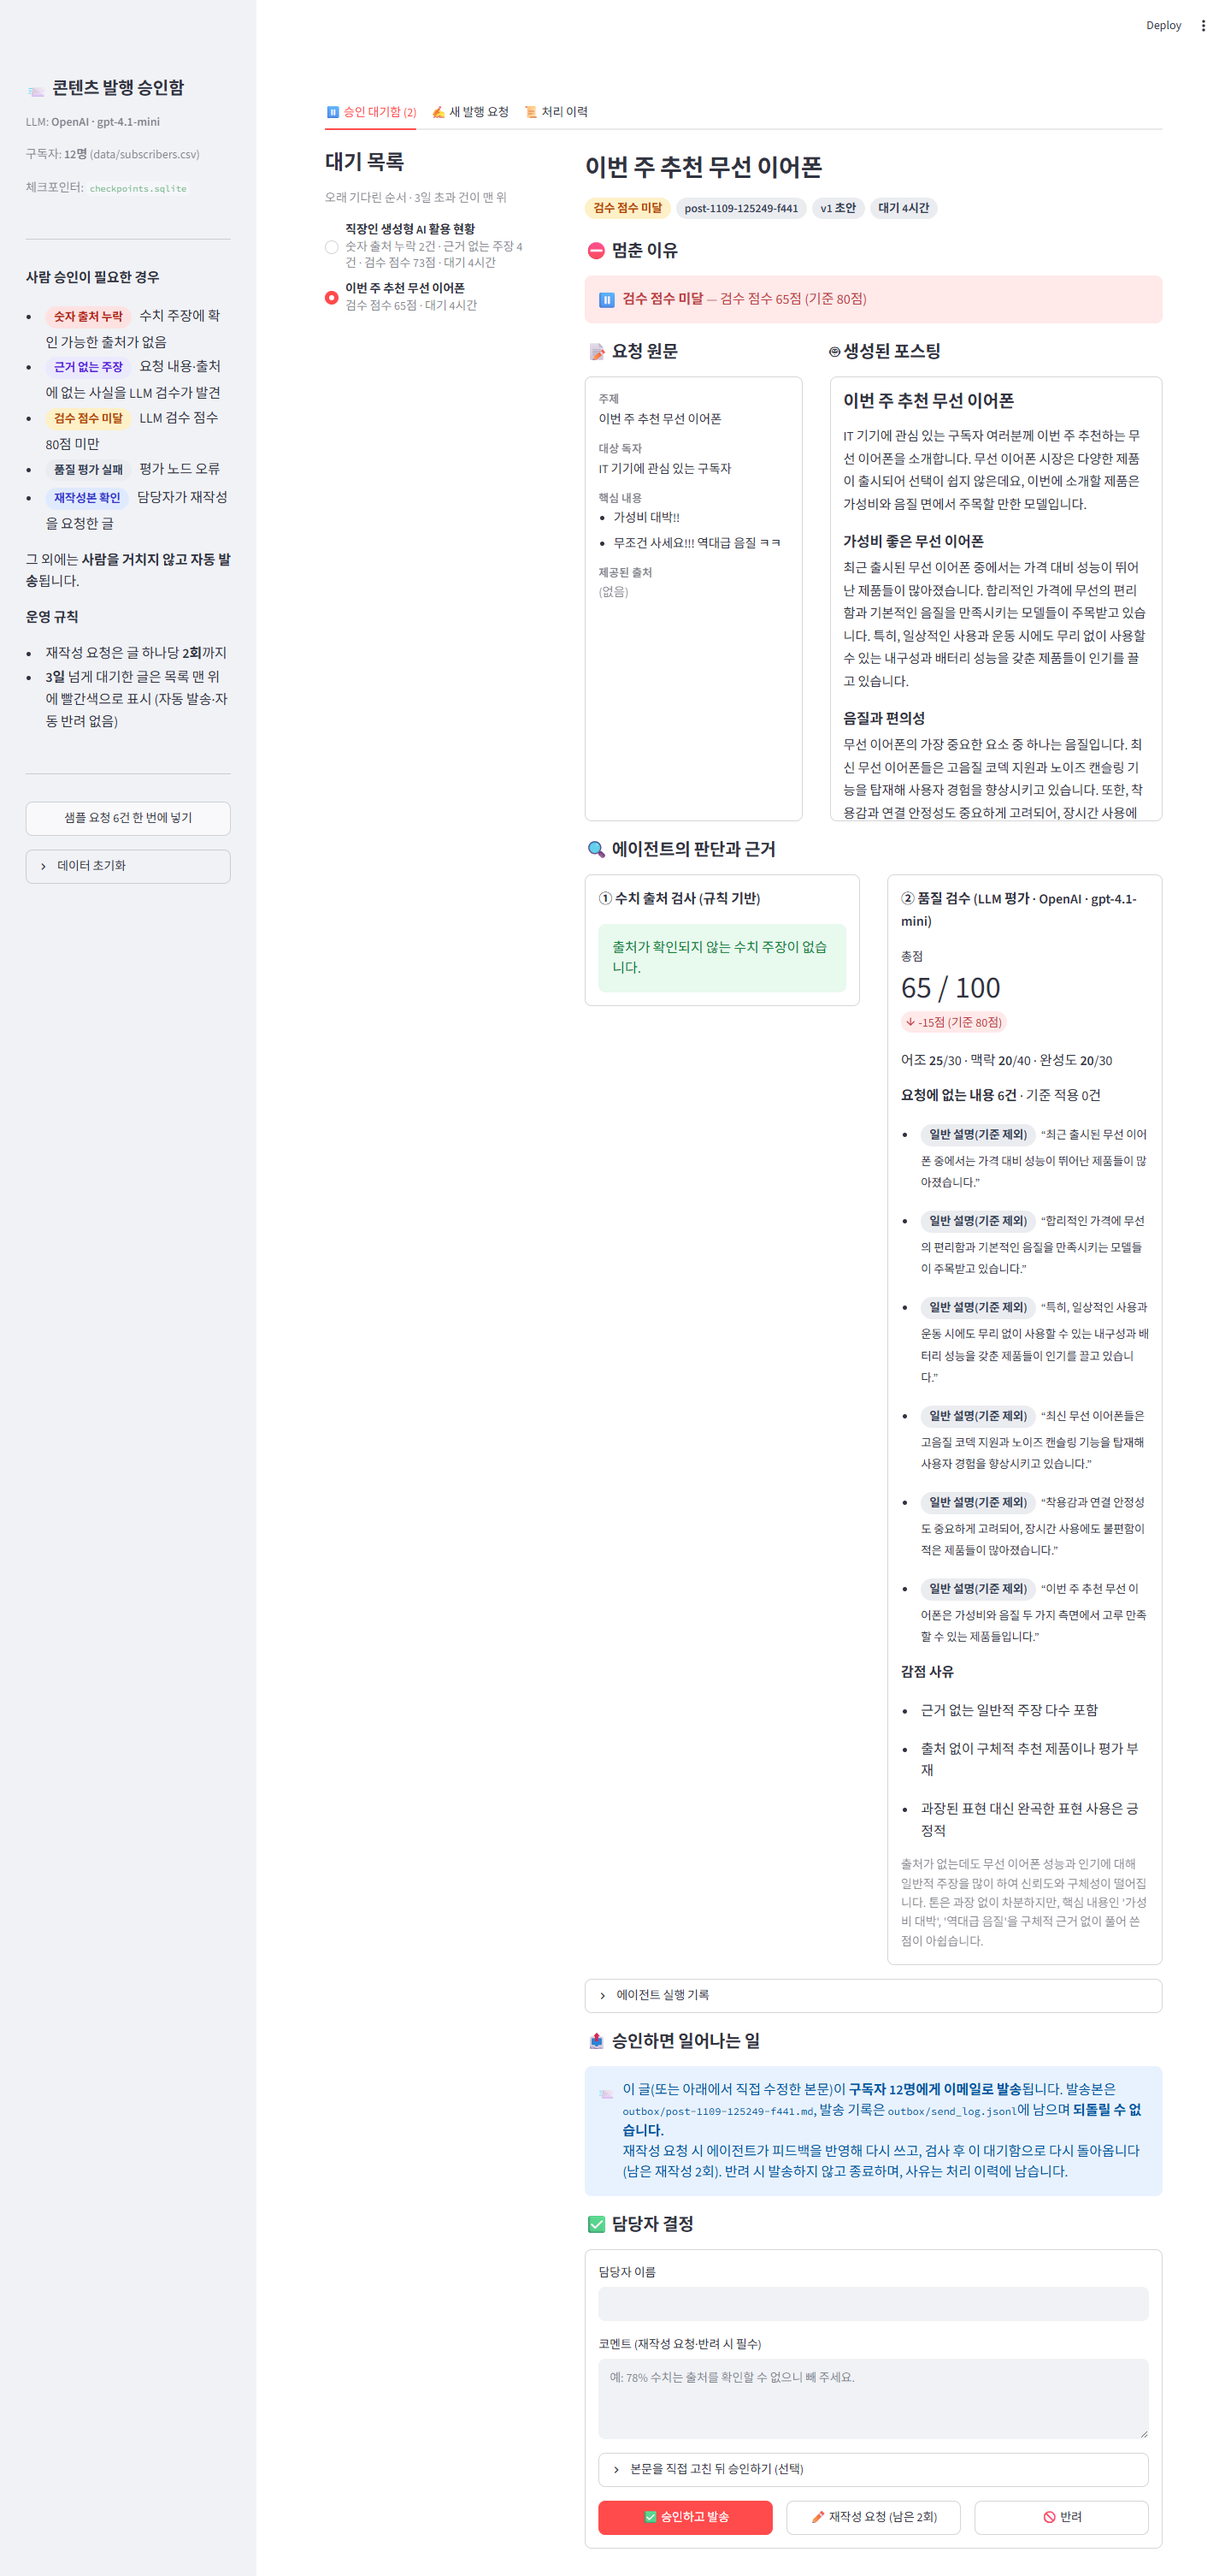
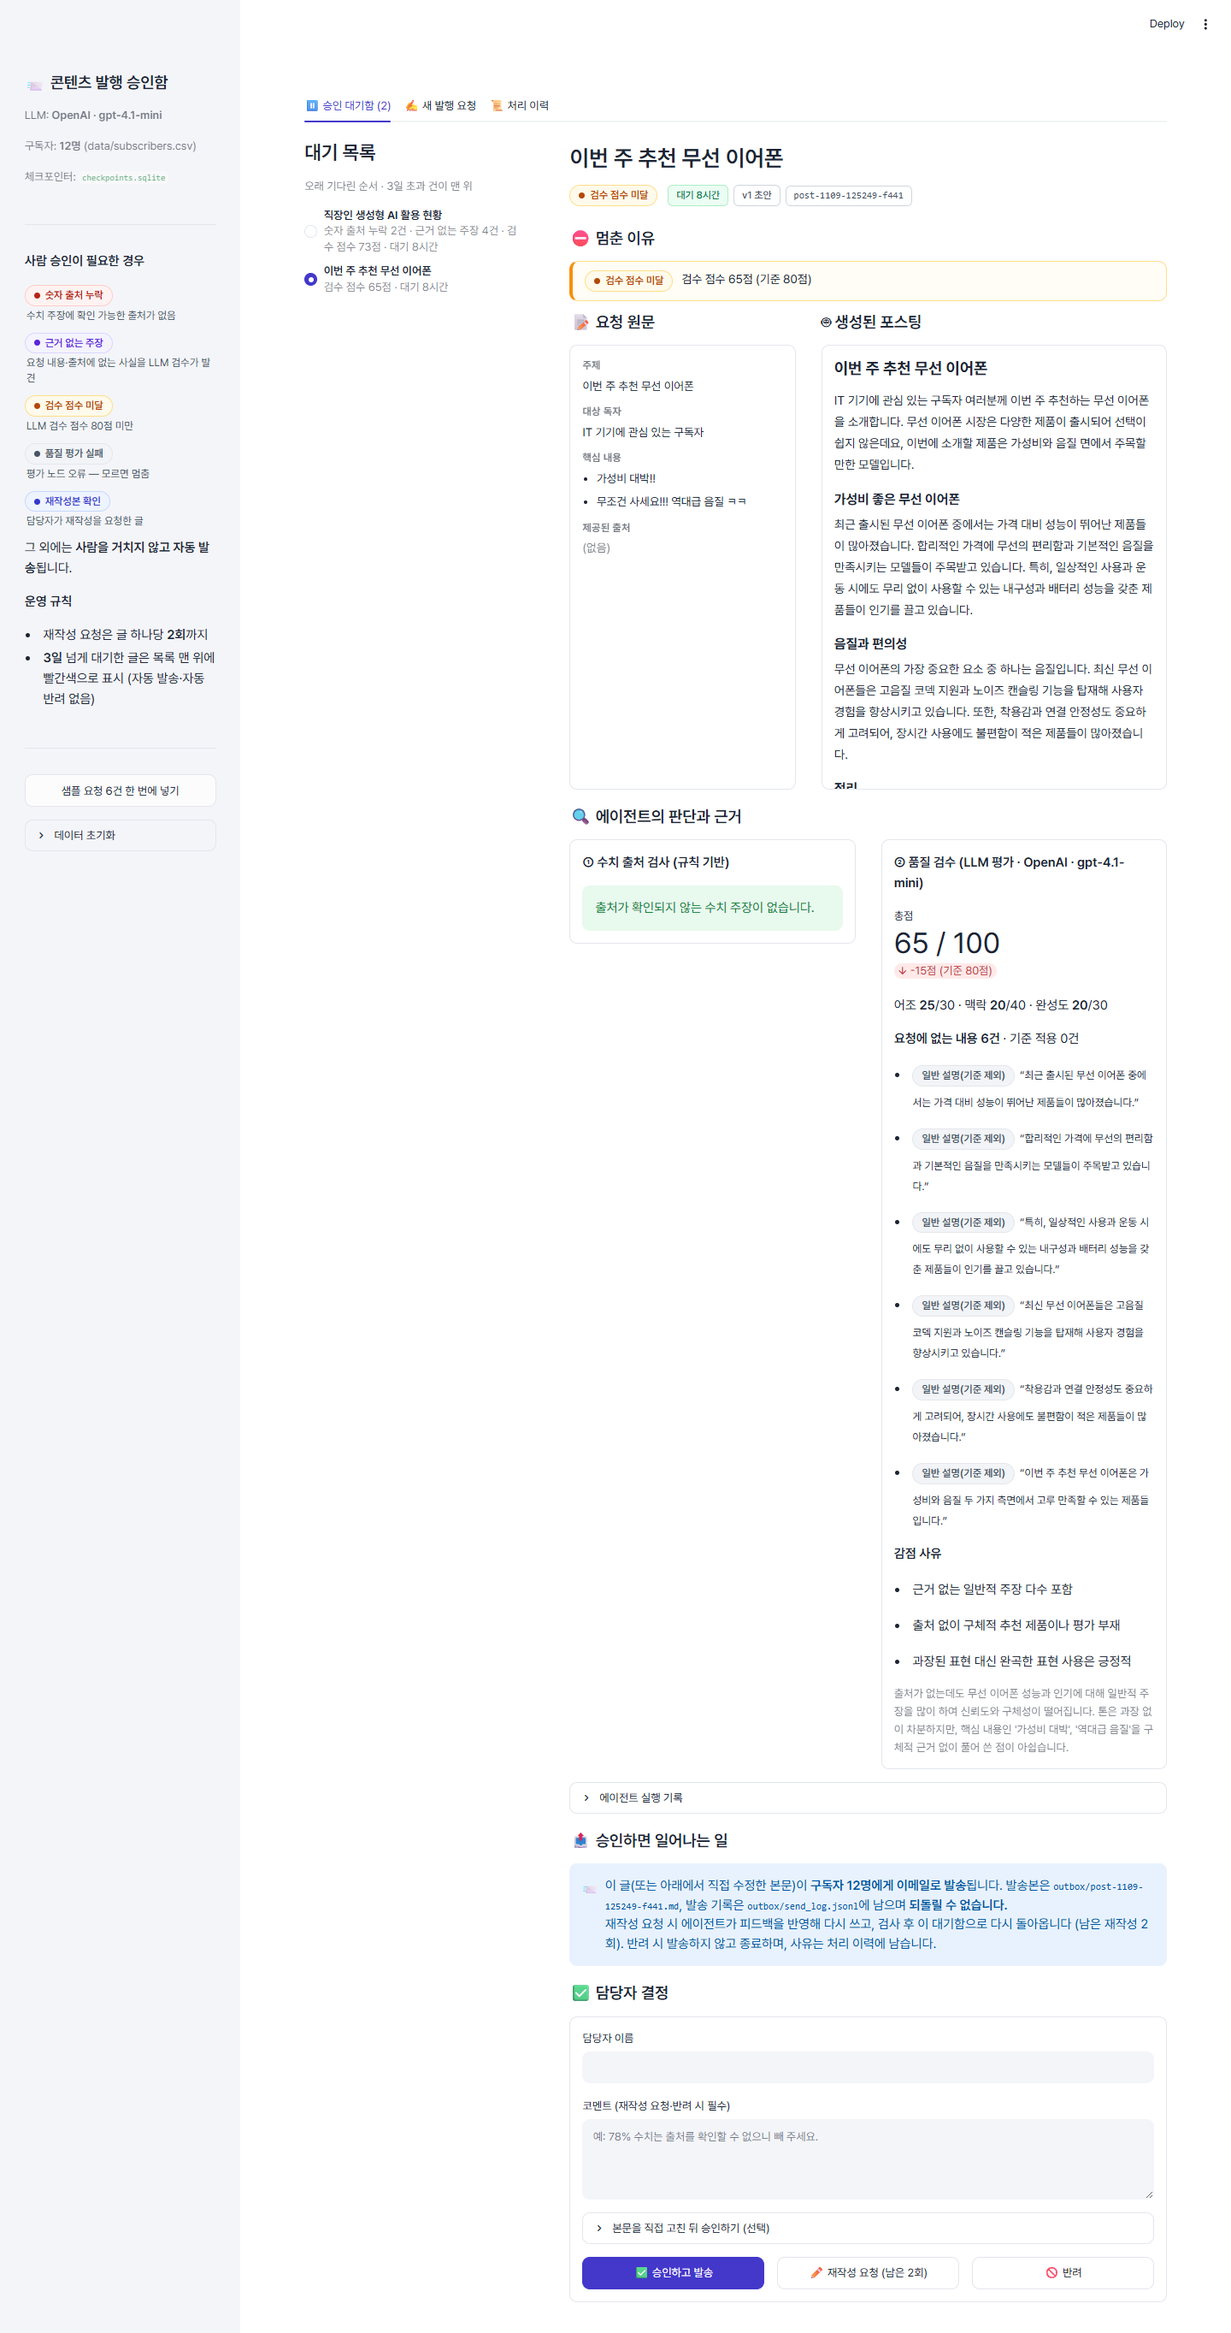
Restyle approval screen: Pretendard font and consistent color rules
- .streamlit/config.toml theme: indigo primary, neutral grays, Pretendard
  (loaded via jsDelivr dynamic-subset CSS, falls back to system fonts)
- Color rules: red = factual risk / overdue, violet = fabricated claims,
  amber = quality, blue = human-check step, gray = reference info
- Stop reasons as color-matched cards; wait-time chip green/amber/red by
  urgency; outlined meta chips for version and request ID
- Sidebar criteria list with description under each chip
- REPORT screenshots recaptured with the new design

diff --git a/app.py b/app.py
@@ -21,13 +21,39 @@ st.set_page_config(page_title="콘텐츠 발행 승인함", page_icon="📨", la
 st.markdown(
     """
 <style>
-.chip{display:inline-block;padding:2px 10px;margin:0 6px 4px 0;border-radius:999px;font-size:0.85rem;font-weight:600}
-.chip-red{background:#fde2e1;color:#b42318}
-.chip-amber{background:#fef0c7;color:#b54708}
-.chip-blue{background:#e0eaff;color:#3538cd}
-.chip-green{background:#dcfae6;color:#067647}
-.chip-gray{background:#eaecf0;color:#344054}
-.chip-purple{background:#ebe9fe;color:#5925dc}
+/* 글꼴: Pretendard (jsDelivr, 화면에 쓰인 글자만 받는 dynamic subset). 인터넷이 없으면 config.toml의 대체 글꼴로 표시된다 */
+@import url("https://cdn.jsdelivr.net/npm/pretendard@1.3.9/dist/web/static/pretendard-dynamic-subset.min.css");
+/* 색 규칙: 빨강 = 사실 위험(수치·기한 초과) · 보라 = 지어낸 주장 · 주황 = 품질 · 파랑 = 사람 확인 단계 · 회색 = 참고 정보 */
+.chip{display:inline-flex;align-items:center;gap:6px;padding:3px 10px;margin:0 6px 6px 0;border-radius:999px;
+  font-size:0.8rem;font-weight:600;line-height:1.4;border:1px solid transparent;white-space:nowrap}
+.chip-red{background:#FEF3F2;color:#B42318;border-color:#FECDCA}
+.chip-amber{background:#FFFAEB;color:#B54708;border-color:#FEDF89}
+.chip-blue{background:#EEF4FF;color:#3538CD;border-color:#C7D7FE}
+.chip-green{background:#ECFDF3;color:#067647;border-color:#ABEFC6}
+.chip-gray{background:#F2F4F7;color:#475467;border-color:#E4E7EC}
+.chip-purple{background:#F4F3FF;color:#5925DC;border-color:#D9D6FE}
+.dot::before{content:"";width:7px;height:7px;border-radius:50%;background:currentColor;flex:none}
+/* 참고 정보(요청 ID·버전·대기 시간): 테두리만 있는 작은 칩 */
+.meta{display:inline-flex;align-items:center;padding:2px 9px;margin:0 6px 6px 0;border-radius:6px;font-size:0.78rem;
+  font-weight:500;color:#475467;background:#fff;border:1px solid #D0D5DD;white-space:nowrap}
+.meta.mono{font-family:Consolas,'D2Coding',monospace;font-size:0.74rem}
+.meta.m-blue{color:#3538CD;border-color:#C7D7FE;background:#EEF4FF}
+.meta.m-green{color:#067647;border-color:#ABEFC6;background:#ECFDF3}
+.meta.m-amber{color:#B54708;border-color:#FEDF89;background:#FFFAEB}
+.meta.m-red{color:#B42318;border-color:#FECDCA;background:#FEF3F2;font-weight:700}
+/* 멈춘 이유: 이유마다 같은 색의 카드 */
+.rbox{display:flex;align-items:flex-start;gap:10px;padding:10px 14px;margin:0 0 8px;border-radius:10px;
+  border:1px solid;border-left-width:4px;font-size:0.92rem;line-height:1.55}
+.rbox .chip{margin:0;flex:none}
+.rbox.r-red{background:#FFFBFA;border-color:#FECDCA;border-left-color:#D92D20}
+.rbox.r-purple{background:#FCFBFF;border-color:#D9D6FE;border-left-color:#7A5AF8}
+.rbox.r-amber{background:#FFFDF5;border-color:#FEDF89;border-left-color:#F79009}
+.rbox.r-blue{background:#F8FAFF;border-color:#C7D7FE;border-left-color:#444CE7}
+.rbox.r-gray{background:#FAFAFB;border-color:#E4E7EC;border-left-color:#667085}
+/* 사이드바 기준 목록 */
+.crit{margin:0 0 10px}
+.crit .chip{margin-bottom:2px}
+.crit div{font-size:0.82rem;color:#475467;line-height:1.45;padding-left:2px}
 mark{background:#fde2e1;color:inherit;padding:0 2px;border-bottom:2px solid #f04438}
 mark.claim{background:#ebe9fe;border-bottom-color:#7a5af8}
 .step{font-size:0.9rem;margin:2px 0}
@@ -57,8 +83,24 @@ REASON_CHIP = {"NUMERIC_NO_SOURCE": "chip-red", "UNSUPPORTED_CLAIM": "chip-purpl
 STATUS_LABEL = {"pending_review": "⏸ 승인 대기", "published": "📨 발송됨", "rejected": "🚫 반려", "drafting": "✍ 작성 중"}
 
 
+def chip(code: str, label: str) -> str:
+    return f'<span class="chip dot {REASON_CHIP.get(code, "chip-gray")}">{html.escape(label)}</span>'
+
+
 def chips(reasons: list[dict]) -> str:
-    return "".join(f'<span class="chip {REASON_CHIP.get(r["code"], "chip-gray")}">{html.escape(r["label"])}</span>' for r in reasons)
+    return "".join(chip(r["code"], r["label"]) for r in reasons)
+
+
+def reason_box(r: dict) -> str:
+    color = REASON_CHIP.get(r["code"], "chip-gray").replace("chip-", "r-")
+    return f'<div class="rbox {color}">{chip(r["code"], r["label"])}<span>{html.escape(r["detail"])}</span></div>'
+
+
+def wait_meta(job: dict) -> str:
+    """대기 시간 칩: 하루 안 = 초록, 기한 전 = 주황, 기한 초과 = 빨강."""
+    days = job.get("_pending_days") or 0
+    tone = "m-red" if job.get("_overdue") else "m-amber" if days >= 1 else "m-green"
+    return f'<span class="meta {tone}">{"⏰ " if job.get("_overdue") else ""}대기 {service.format_age(job.get("_pending_days"))}</span>'
 
 
 def highlight(post: str, findings: list[dict], claims: list[str] = ()) -> str:
@@ -165,13 +207,20 @@ with st.sidebar:
     st.divider()
     st.markdown("**사람 승인이 필요한 경우**")
     st.markdown(
+        "".join(
+            f'<div class="crit">{chip(code, label)}<div>{desc}</div></div>'
+            for code, label, desc in [
+                ("NUMERIC_NO_SOURCE", "숫자 출처 누락", "수치 주장에 확인 가능한 출처가 없음"),
+                ("UNSUPPORTED_CLAIM", "근거 없는 주장", "요청 내용·출처에 없는 사실을 LLM 검수가 발견"),
+                ("LOW_QUALITY", "검수 점수 미달", f"LLM 검수 점수 {QUALITY_THRESHOLD}점 미만"),
+                ("EVAL_ERROR", "품질 평가 실패", "평가 노드 오류 — 모르면 멈춤"),
+                ("REVISION_CONFIRM", "재작성본 확인", "담당자가 재작성을 요청한 글"),
+            ]
+        ),
+        unsafe_allow_html=True,
+    )
+    st.markdown(
         f"""
-- <span class="chip chip-red">숫자 출처 누락</span> 수치 주장에 확인 가능한 출처가 없음
-- <span class="chip chip-purple">근거 없는 주장</span> 요청 내용·출처에 없는 사실을 LLM 검수가 발견
-- <span class="chip chip-amber">검수 점수 미달</span> LLM 검수 점수 {QUALITY_THRESHOLD}점 미만
-- <span class="chip chip-gray">품질 평가 실패</span> 평가 노드 오류
-- <span class="chip chip-blue">재작성본 확인</span> 담당자가 재작성을 요청한 글
-
 그 외에는 **사람을 거치지 않고 자동 발송**됩니다.
 
 **운영 규칙**
@@ -257,10 +306,10 @@ with tab_inbox:
             st.markdown(f"### {job['topic']}")
             st.markdown(
                 chips(job.get("reasons", []))
-                + f'<span class="chip chip-gray">{job["request_id"]}</span>'
-                + f'<span class="chip chip-gray">v{job.get("revision", 0) + 1} 초안</span>'
-                + f'<span class="chip {"chip-red" if job["_overdue"] else "chip-gray"}">'
-                f'{"⏰ " if job["_overdue"] else ""}대기 {service.format_age(job["_pending_days"])}</span>',
+                + '<span style="display:inline-block;width:6px"></span>'
+                + wait_meta(job)
+                + f'<span class="meta {"m-blue" if job.get("revision", 0) else ""}">v{job.get("revision", 0) + 1} 초안</span>'
+                + f'<span class="meta mono">{job["request_id"]}</span>',
                 unsafe_allow_html=True,
             )
             if job["_overdue"]:
@@ -268,8 +317,7 @@ with tab_inbox:
 
             # --- 멈춘 이유
             st.markdown("##### ⛔ 멈춘 이유")
-            for r in job.get("reasons", []):
-                st.error(f"**{r['label']}** — {r['detail']}", icon="⏸")
+            st.markdown("".join(reason_box(r) for r in job.get("reasons", [])), unsafe_allow_html=True)
 
             # --- 원문 vs 생성 글
             c1, c2 = st.columns([2, 3], gap="medium")  # 읽을 양이 많은 포스팅 쪽을 넓게
